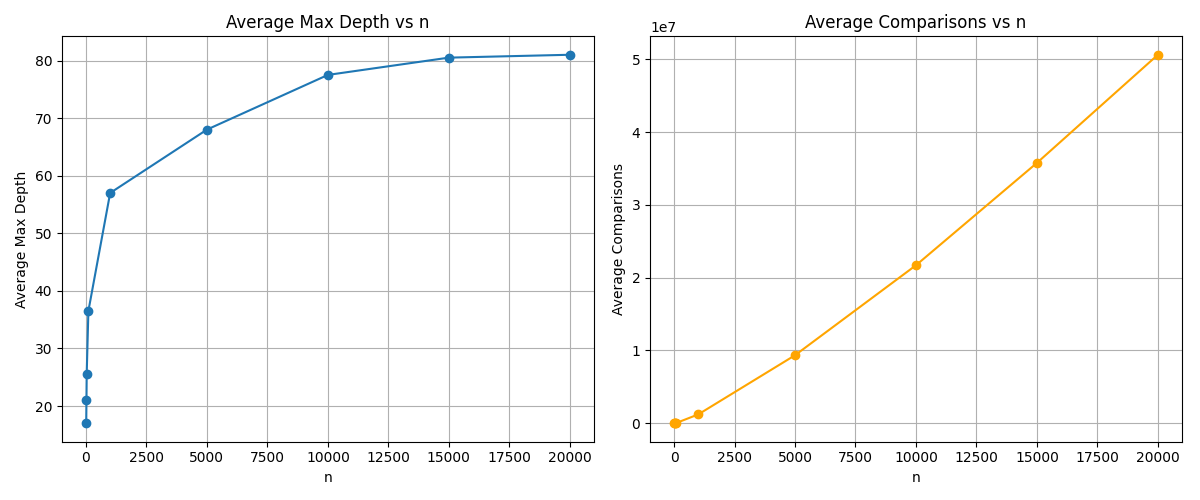
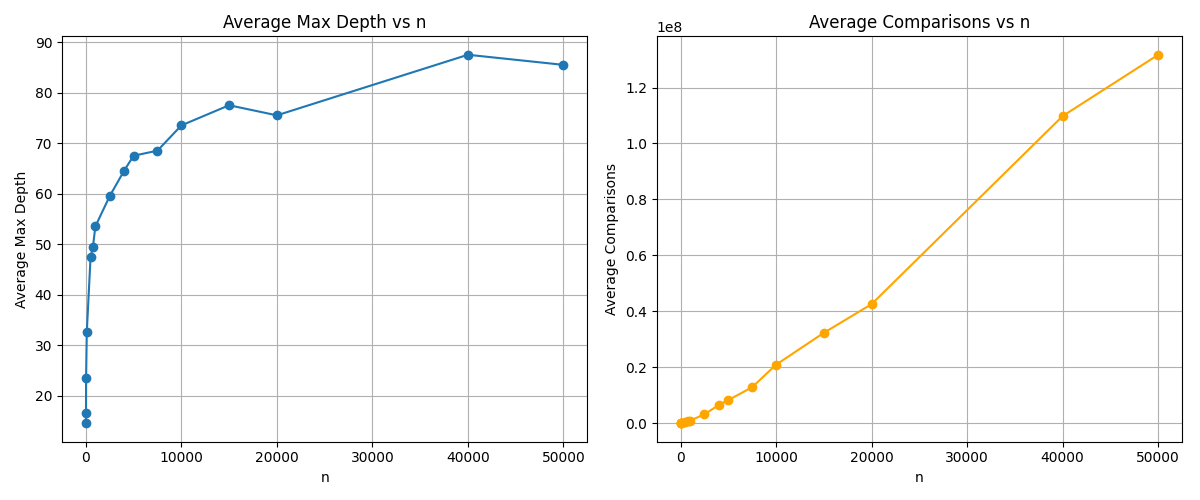
added additional plot for comps per el

diff --git a/hw1_bst.py b/hw1_bst.py
@@ -51,7 +51,7 @@ def bst_simulate(bst, n):
     return depth_data, comp_data
 
 if __name__ == "__main__":
-    num_range = [10, 20, 30, 100, 1000, 5000, 10000, 15000, 20000] # ranges of n to try
+    num_range = [10, 20, 30, 100, 500, 750, 1000, 2500, 4000, 5000, 7500, 10000, 15000, 20000, 40000, 50000]
     max_depth_data = [] # 2d list, each entry is a list of 10 max depths achieved from each run
     comp_data = [] # 2d list with similar data as above
 
@@ -75,6 +75,11 @@ if __name__ == "__main__":
     for depth_data, comps in zip(max_depth_data, comp_data):
         avg_depth_data.append(np.mean(depth_data))
         avg_comp_data.append(np.mean(comps))
+    comps_per_el = np.array(avg_comp_data) / np.array(num_range)
+
+    print(avg_comp_data)
+    print(avg_depth_data)
+    print(comps_per_el)
 
     # plot data
     plt.figure(figsize=(12, 5))
@@ -96,6 +101,16 @@ if __name__ == "__main__":
     plt.grid(True)
 
     plt.tight_layout()
-    save_path = "out/hw1_bst.png"
+    save_path = "out/temp1.png"
     plt.savefig(save_path)
-    print(f"saved figure to {save_path}")
+    print(f"saved figure 1 to {save_path}")
+    plt.close()
+
+    plt.plot(num_range, comps_per_el, marker='o', color='red')
+    plt.xlabel('n')
+    plt.ylabel('Average Comparisons per Element')
+    plt.title('Average Comparisons per Element vs n')
+    plt.grid(True)
+    save_path = "out/temp2.png"
+    plt.savefig(save_path)
+    print(f"saved figure 2 to {save_path}")
